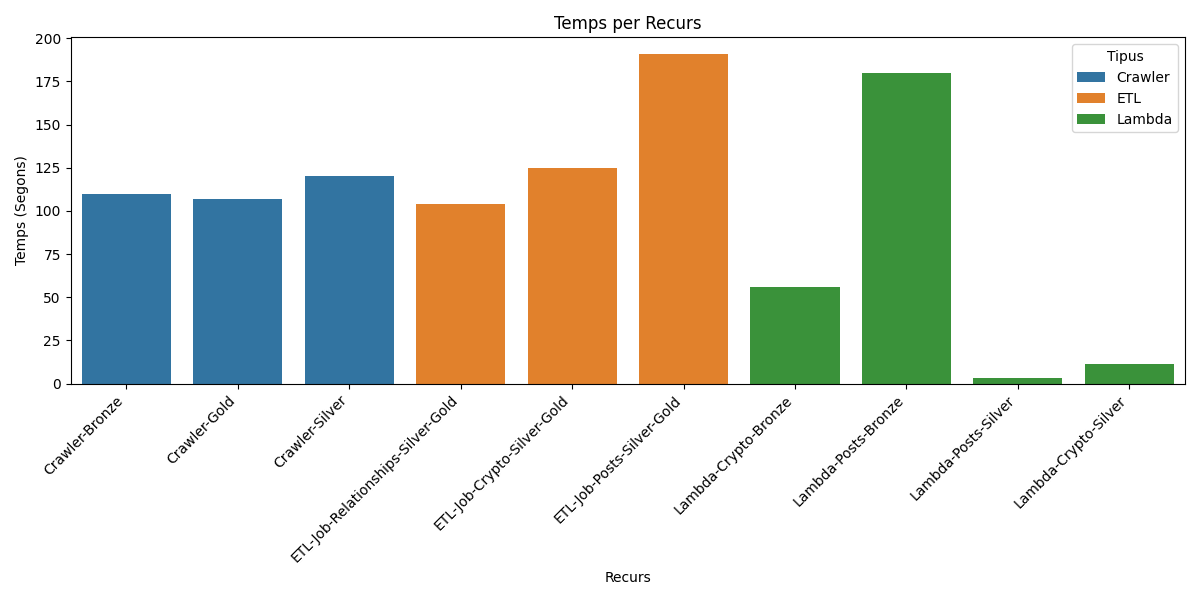
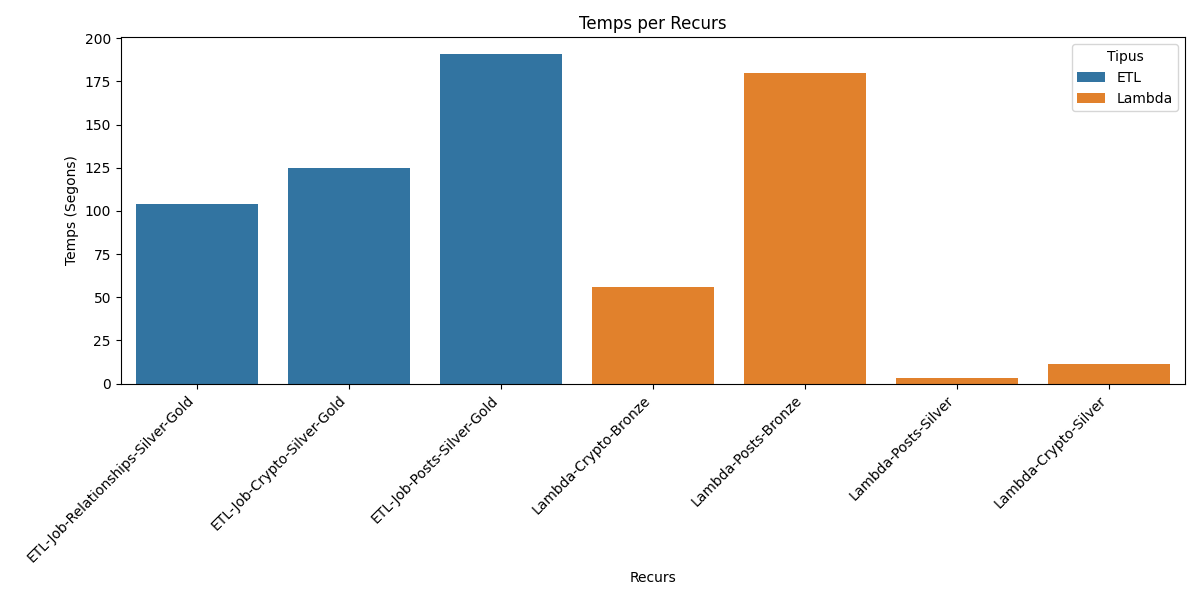
grafana code

diff --git a/grafiques.py b/grafiques.py
@@ -11,9 +11,9 @@ data = [
     {"Recurs": "ETL-Job-Posts-Silver-Gold", "Tipus": "ETL", "Capa": "Gold", "Temps_segons": 191.0},
     {"Recurs": "ETL-Job-Crypto-Silver-Gold", "Tipus": "ETL", "Capa": "Gold", "Temps_segons": 125.0},
     {"Recurs": "ETL-Job-Relationships-Silver-Gold", "Tipus": "ETL", "Capa": "Gold", "Temps_segons": 104.0},
-    {"Recurs": "Crawler-Bronze", "Tipus": "Crawler", "Capa": "Bronze", "Temps_segons": 110.0},
-    {"Recurs": "Crawler-Silver", "Tipus": "Crawler", "Capa": "Silver", "Temps_segons": 120.0},
-    {"Recurs": "Crawler-Gold", "Tipus": "Crawler", "Capa": "Gold", "Temps_segons": 107.0}
+    # {"Recurs": "Crawler-Bronze", "Tipus": "Crawler", "Capa": "Bronze", "Temps_segons": 110.0},
+    # {"Recurs": "Crawler-Silver", "Tipus": "Crawler", "Capa": "Silver", "Temps_segons": 120.0},
+    # {"Recurs": "Crawler-Gold", "Tipus": "Crawler", "Capa": "Gold", "Temps_segons": 107.0}
 ]
 
 df = pd.DataFrame(data)
